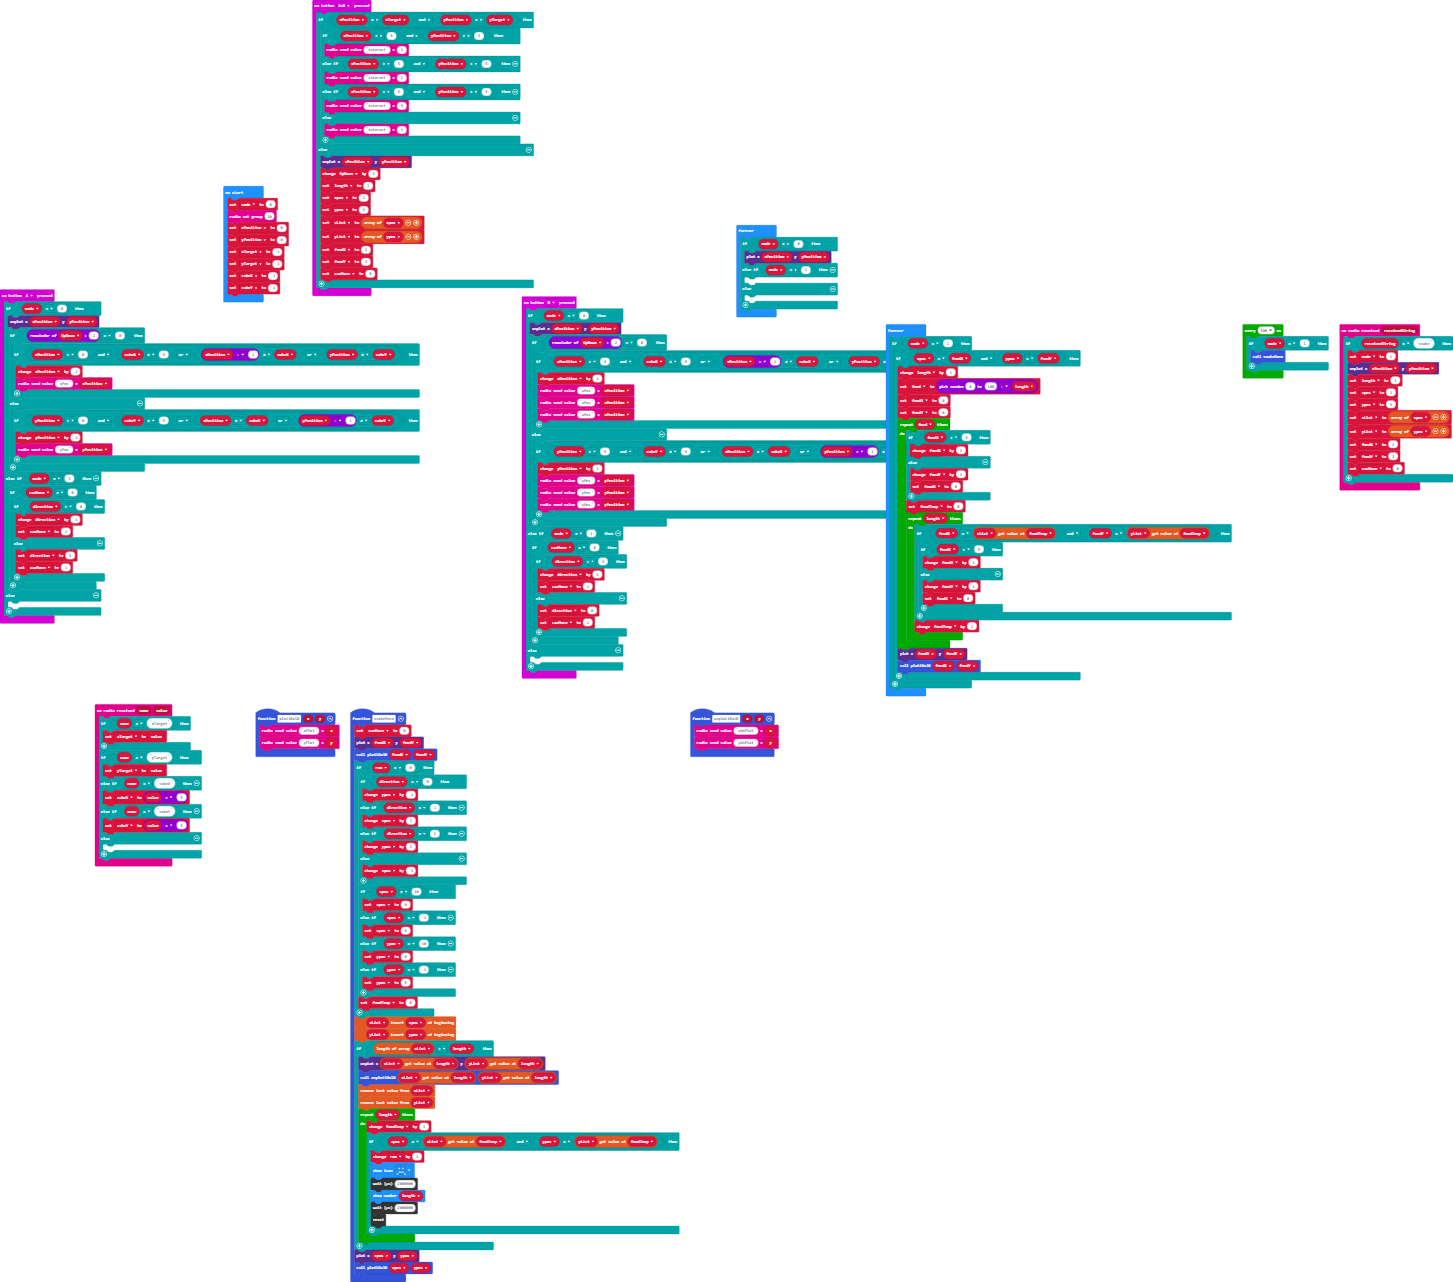
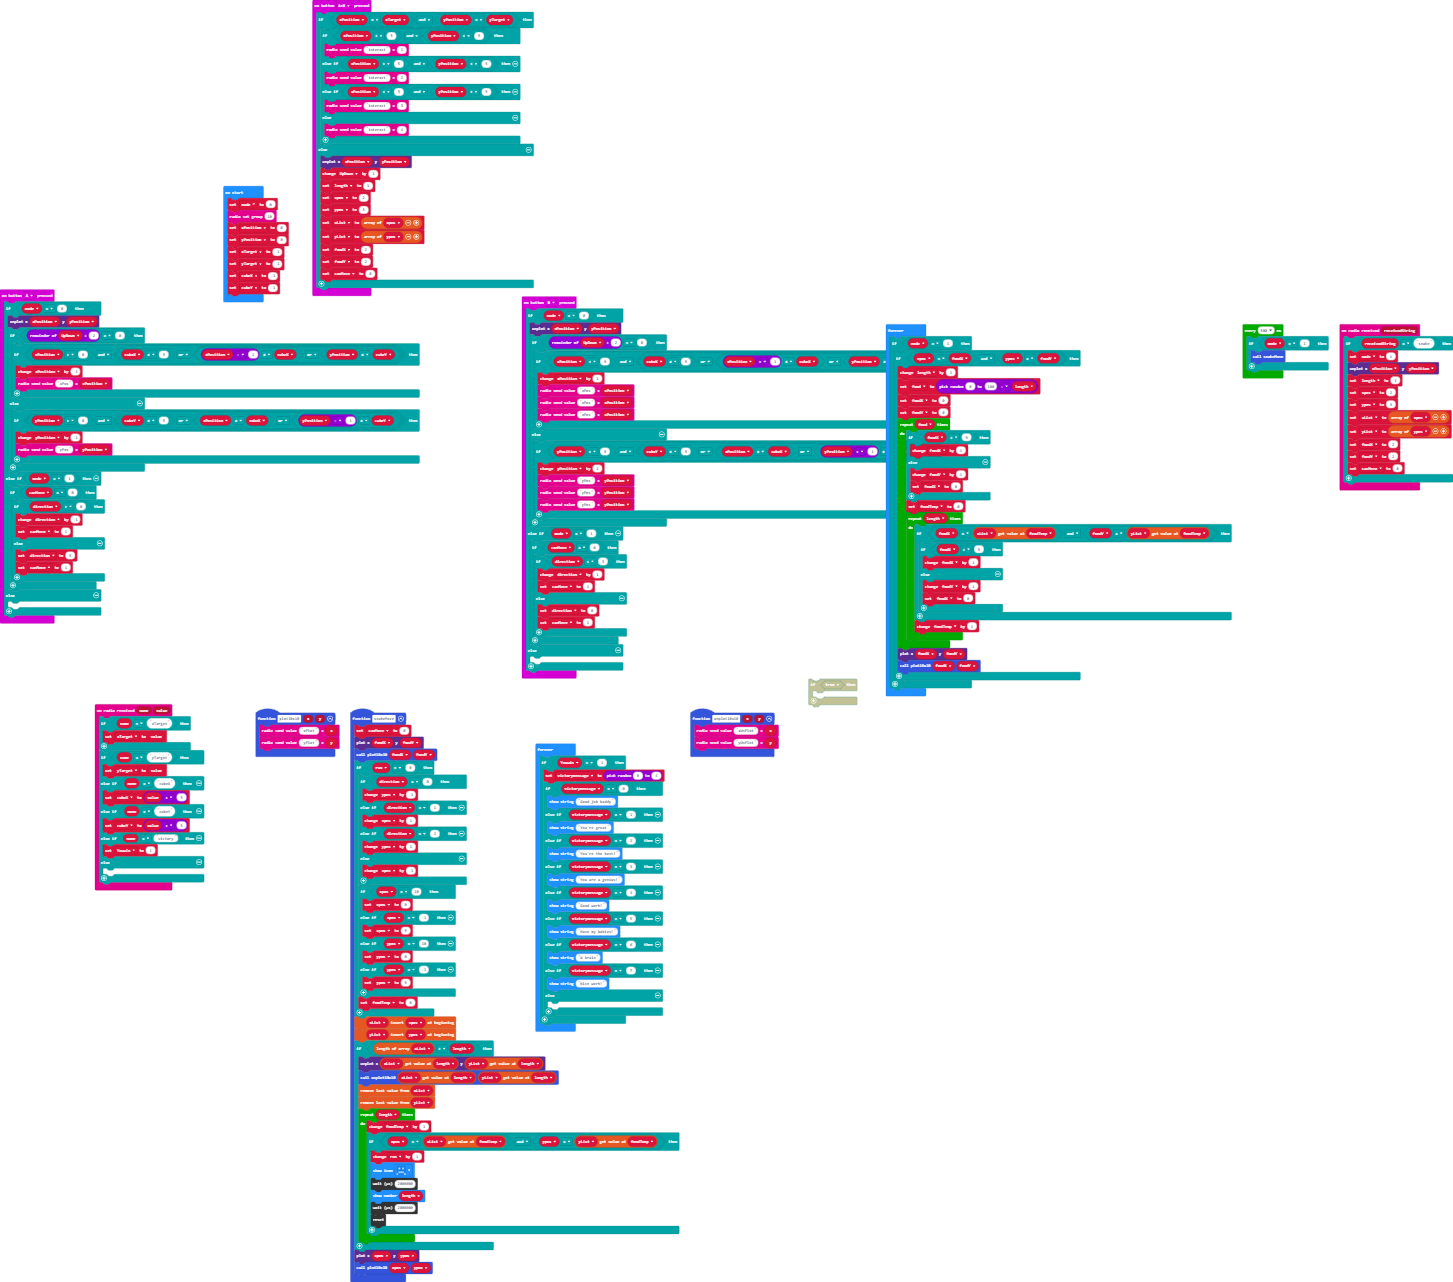
Update main.blocks, main.ts

diff --git a/main.ts b/main.ts
@@ -157,6 +157,8 @@ radio.onReceivedValue(function (name, value) {
         cubeX = value + 5
     } else if (name == "cubeY") {
         cubeY = value + 5
+    } else if (name == "victory") {
+        Youwin = 1
     } else {
     	
     }
@@ -165,7 +167,9 @@ function unplot10x10 (x: number, y: number) {
     radio.sendValue("xUnPlot", x)
     radio.sendValue("yUnPlot", y)
 }
+let victorymessage = 0
 let food = 0
+let Youwin = 0
 let foodTemp = 0
 let run = 0
 let foodY = 0
@@ -199,15 +203,6 @@ loops.everyInterval(500, function () {
     }
 })
 basic.forever(function () {
-    if (mode == 0) {
-        led.plot(xPosition, yPosition)
-    } else if (mode == 1) {
-    	
-    } else {
-    	
-    }
-})
-basic.forever(function () {
     if (mode == 1) {
         if (xpos == foodX && ypos == foodY) {
             length += 1
@@ -236,6 +231,30 @@ basic.forever(function () {
             }
             led.plot(foodX, foodY)
             plot10x10(foodX, foodY)
+        }
+    }
+})
+basic.forever(function () {
+    if (Youwin == 1) {
+        victorymessage = randint(0, 4)
+        if (victorymessage == 0) {
+            basic.showString("Good job buddy")
+        } else if (victorymessage == 1) {
+            basic.showString("You're great")
+        } else if (victorymessage == 2) {
+            basic.showString("You're the best!")
+        } else if (victorymessage == 3) {
+            basic.showString("You are a genius!")
+        } else if (victorymessage == 4) {
+            basic.showString("Good work!")
+        } else if (victorymessage == 5) {
+            basic.showString("Have my babies!")
+        } else if (victorymessage == 6) {
+            basic.showString("W brain")
+        } else if (victorymessage == 7) {
+            basic.showString("Nice work!")
+        } else {
+        	
         }
     }
 })
